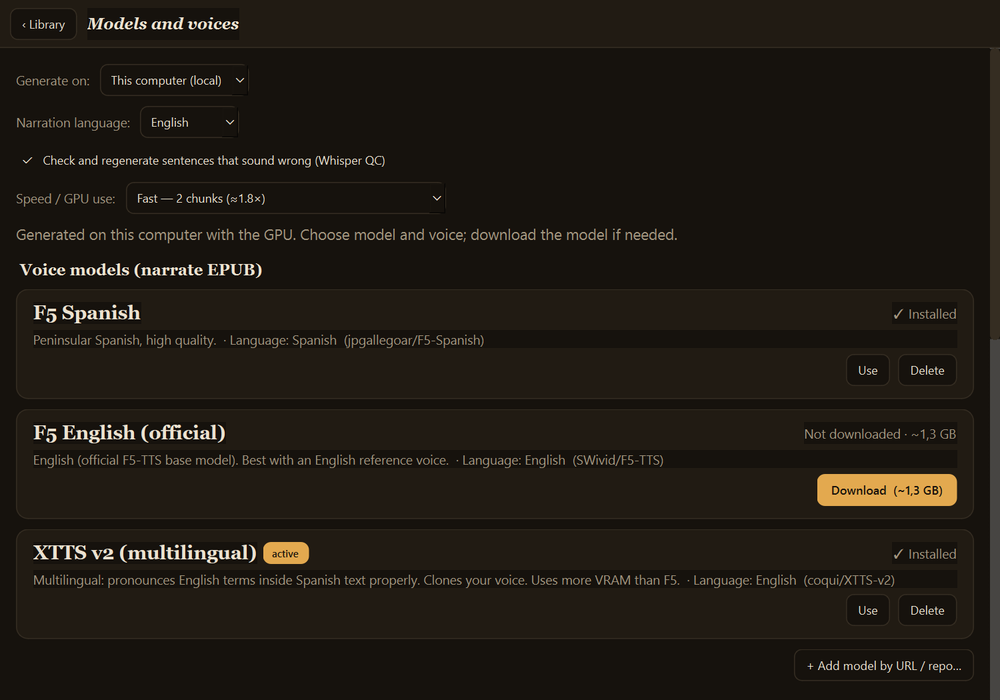
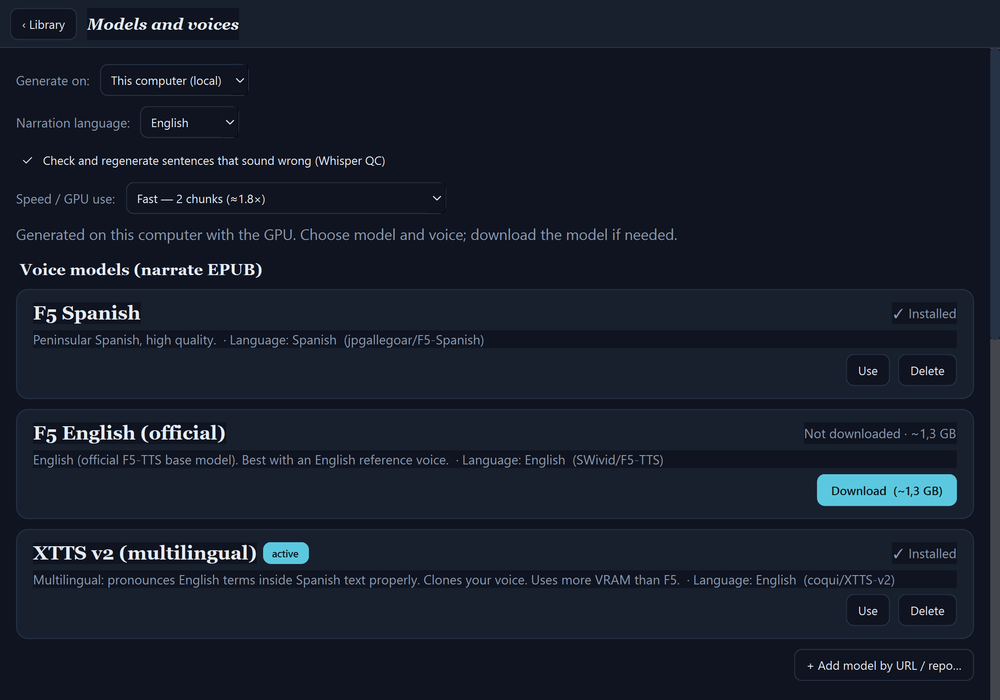
Versión 1.3.2: colores azul noche y cian, y capturas nuevas de la portada
Paleta nueva en toda la ventana (fondo #0f1420, paneles #18202e, acento #5cc8e0) en lugar del
marrón y ámbar. Capturas de docs/ rehechas con la biblioteca de demostración (dominio público).

Claude-Session: https://claude.ai/code/session_01St6UgoJ9Tu9E6GrvcsKFgy

diff --git a/storyteller.py b/storyteller.py
@@ -29,7 +29,7 @@ from st_core import (ACTIVE_GEN, EtaTracker, _atomic_write, book_resumable, chap
                      split_ranges, snapshot_chapter as core_snapshot_chapter, venv_has, BASE_PACKAGES, F5_PACKAGES,
                      XTTS_PACKAGES, install_commands, qc_can_run, whisper_target, whisper_venv, VENV_XTTS)
 
-__version__ = "1.3.1"
+__version__ = "1.3.2"
 
 MINT       = ""                      # servidor propio opcional (user@host); se configura en Modelos
 REMOTE_DIR = "epub-tts"                # relativa al home del usuario del servidor
@@ -3868,48 +3868,48 @@ class Cuentacuentos(QMainWindow):
 
 
 STYLE = """
-* { font-family: "Segoe UI", sans-serif; color: #ece2d0; }
-QStackedWidget, QWidget { background: #16120d; }
-#head { background: #211b13; border-bottom: 1px solid #352d22; }
+* { font-family: "Segoe UI", sans-serif; color: #e6ecf5; }
+QStackedWidget, QWidget { background: #0f1420; }
+#head { background: #18202e; border-bottom: 1px solid #263246; }
 #word { font-family: "Georgia", serif; font-style: italic; font-size: 21px; font-weight: 600; }
 #word2 { font-family: "Georgia", serif; font-style: italic; font-size: 16px; font-weight: 600; }
-#tag { font-size: 10px; color: #e3a94f; letter-spacing: 1px; }
-QPushButton#ver { background: transparent; border: none; padding: 0; font-size: 11px; color: #a2957f; text-align: left; }
-QPushButton#ver:hover { color: #e3a94f; text-decoration: underline; }
-QPushButton#ver:disabled { color: #6f6553; }
-#open { background: #e3a94f; color: #1a140c; border: none; border-radius: 8px; padding: 8px 14px; font-weight: 600; }
-#open:disabled { background: #4a3f2c; color: #8a7d64; }
-QComboBox { background: #16120d; border: 1px solid #352d22; border-radius: 8px; padding: 6px 10px; }
-QComboBox QAbstractItemView { background: #211b13; selection-background-color: #e3a94f; selection-color: #1a140c; }
-#reader { background: #16120d; border: none; }
-#bookcard { background: #211b13; border: 1px solid #352d22; border-radius: 12px; }
-#bookcard:hover { border-color: #e3a94f; }
+#tag { font-size: 10px; color: #5cc8e0; letter-spacing: 1px; }
+QPushButton#ver { background: transparent; border: none; padding: 0; font-size: 11px; color: #8c9ab0; text-align: left; }
+QPushButton#ver:hover { color: #5cc8e0; text-decoration: underline; }
+QPushButton#ver:disabled { color: #56647a; }
+#open { background: #5cc8e0; color: #08171c; border: none; border-radius: 8px; padding: 8px 14px; font-weight: 600; }
+#open:disabled { background: #2c3a50; color: #6f7f97; }
+QComboBox { background: #0f1420; border: 1px solid #263246; border-radius: 8px; padding: 6px 10px; }
+QComboBox QAbstractItemView { background: #18202e; selection-background-color: #5cc8e0; selection-color: #08171c; }
+#reader { background: #0f1420; border: none; }
+#bookcard { background: #18202e; border: 1px solid #263246; border-radius: 12px; }
+#bookcard:hover { border-color: #5cc8e0; }
 #booktitle { font-family: "Georgia", serif; font-size: 19px; font-weight: 600; }
-#booksub { color: #a2957f; font-size: 13px; }
-#chip { background: #e3a94f; color: #1a140c; border-radius: 8px; padding: 1px 7px; font-size: 10px; font-weight: 600; }
-#sec { font-family: "Georgia", serif; font-size: 16px; font-weight: 600; color: #ece2d0; margin-top: 6px; }
+#booksub { color: #8c9ab0; font-size: 13px; }
+#chip { background: #5cc8e0; color: #08171c; border-radius: 8px; padding: 1px 7px; font-size: 10px; font-weight: 600; }
+#sec { font-family: "Georgia", serif; font-size: 16px; font-weight: 600; color: #e6ecf5; margin-top: 6px; }
 #trash { background: transparent; border: none; font-size: 15px; padding: 2px 6px; }
 #trash:hover { color: #ff8a80; }
 #chtitle { font-family: "Georgia", serif; font-size: 30px; font-weight: 600; margin-bottom: 18px; }
-#hint { color: #a2957f; font-size: 15px; }
-QLabel#cue { font-family: "Georgia", serif; font-size: 21px; color: rgba(236,226,208,0.40);
+#hint { color: #8c9ab0; font-size: 15px; }
+QLabel#cue { font-family: "Georgia", serif; font-size: 21px; color: rgba(230,236,245,0.40);
     padding: 4px 6px; border-radius: 6px; }
-QLabel#cue[active="true"] { color: #ece2d0; background: rgba(227,169,79,0.17); }
-#bar { background: #211b13; border-top: 1px solid #352d22; }
-#progwrap { background: #211b13; border-top: 1px solid #352d22; }
-#proglabel { color: #a2957f; font-size: 12px; }
-QProgressBar { background: #16120d; border: none; border-radius: 3px; }
-QProgressBar::chunk { background: #e3a94f; border-radius: 3px; }
-#time { color: #a2957f; font-size: 12px; }
-#live { color: #e3a94f; font-size: 12px; }
-QPushButton#tb { background: #16120d; border: 1px solid #352d22; border-radius: 8px; padding: 7px 11px; }
-QPushButton#tb:hover { border-color: #e3a94f; color: #e3a94f; }
-#play { background: #e3a94f; color: #1a140c; border: none; border-radius: 8px; font-size: 16px; min-width: 46px; padding: 7px 11px; }
-QSlider::groove:horizontal { height: 4px; background: #352d22; border-radius: 2px; }
-QSlider::handle:horizontal { background: #e3a94f; width: 14px; height: 14px; margin: -5px 0; border-radius: 7px; }
-QSlider::sub-page:horizontal { background: #e3a94f; border-radius: 2px; }
-QScrollBar:vertical { background: #16120d; width: 10px; }
-QScrollBar::handle:vertical { background: #352d22; border-radius: 5px; min-height: 30px; }
+QLabel#cue[active="true"] { color: #e6ecf5; background: rgba(92,200,224,0.17); }
+#bar { background: #18202e; border-top: 1px solid #263246; }
+#progwrap { background: #18202e; border-top: 1px solid #263246; }
+#proglabel { color: #8c9ab0; font-size: 12px; }
+QProgressBar { background: #0f1420; border: none; border-radius: 3px; }
+QProgressBar::chunk { background: #5cc8e0; border-radius: 3px; }
+#time { color: #8c9ab0; font-size: 12px; }
+#live { color: #5cc8e0; font-size: 12px; }
+QPushButton#tb { background: #0f1420; border: 1px solid #263246; border-radius: 8px; padding: 7px 11px; }
+QPushButton#tb:hover { border-color: #5cc8e0; color: #5cc8e0; }
+#play { background: #5cc8e0; color: #08171c; border: none; border-radius: 8px; font-size: 16px; min-width: 46px; padding: 7px 11px; }
+QSlider::groove:horizontal { height: 4px; background: #263246; border-radius: 2px; }
+QSlider::handle:horizontal { background: #5cc8e0; width: 14px; height: 14px; margin: -5px 0; border-radius: 7px; }
+QSlider::sub-page:horizontal { background: #5cc8e0; border-radius: 2px; }
+QScrollBar:vertical { background: #0f1420; width: 10px; }
+QScrollBar::handle:vertical { background: #263246; border-radius: 5px; min-height: 30px; }
 QScrollBar::add-line, QScrollBar::sub-line { height: 0; }
 """
 

diff --git a/st_server.py b/st_server.py
@@ -20,7 +20,7 @@ from pathlib import Path
 import array, tempfile
 from urllib.parse import unquote, urlsplit
 
-__version__ = "1.3.1"
+__version__ = "1.3.2"
 DEFAULT_PORT = 8765
 MAX_INPUT = 4096                     # como la API de OpenAI; una frase son unos 200 caracteres
 MAX_BODY = 1024 * 1024

diff --git a/CHANGELOG.md b/CHANGELOG.md
@@ -1,6 +1,9 @@
 # Changelog
 
-## Unreleased
+## 1.3.2 (2026-11-07)
+
+### Changed
+- New colours: night blue and cyan instead of brown and amber. The screenshots in the README show them.
 
 ### Fixed
 - Narrating on your own server, the progress bar was almost full all the time: it only counted the sentences of
